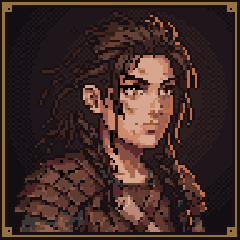
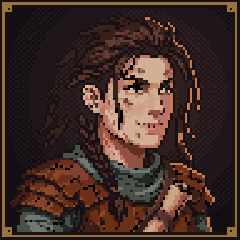
ART3C: Tess re-rolled so her scarred, deaf right ear shows (user pick take 2: the notched ear and the burn down her cheek and jaw); the ART3B pick and the other take kept with their records; ART3_PROMPTS ear line and ART3B/ART3C paragraphs
Review: change-reviewer ship (no fixes)
Gate: check_project.ps1 -Fast -Quiet passed, 477 tests; tools/fc.sh docs clean; 2 image API calls

diff --git a/games/emberwake/docs/specs/ART3_PROMPTS.md b/games/emberwake/docs/specs/ART3_PROMPTS.md
@@ -25,11 +25,17 @@ how far its features are pushed: the hub cast (Tess, Bram, Aline) readable and w
 Clerisy (Quell, Nemeth, the Purifier), the corrupted (the Calcified Husk) and Orlov much further. Hair now varies by
 character; a hood, cowl or habit veil stays only where the brief needs it (the Purifier's gas-mask hood). What the lore
 fixes stays: Tess's deaf, burned ear (her right ear since the user's call of 2026-10-25, so it shows in the
-right-facing framing; the ART3B takes were made with the left ear and no re-roll is run yet), Bram's loupe over the
+right-facing framing; the ART3B takes were made with the left ear, and the right-ear re-roll ran as ART3C, see
+below), Bram's loupe over the
 right eye and scarred throat, Aline's cropped soot-black hair and defaced habit, Quell's neck valve, Nemeth's grey skin
 and throat vial. The two creature blocks are unchanged and were not re-rolled. The user's ART3B picks (2026-10-25:
 take 1 of Vane, Quell, Orlov, Nemeth, the Husk, Tess and Bram, take 2 of the Purifier and Aline) are now
 `art_src/<id>.png` and the game portraits; the ART3 picks went back to their `_gen` names as takes.
+
+ART3C (user 2026-10-25, Tess's right-ear re-roll; 2 takes, Gemini 3 Pro Image): Tess's block names the near-side ear
+on the left of the picture, uncovered by hair, notched, with the burn running onto her jaw. The user picked take 2
+(`tess_gen1792945812_2`); it is now `art_src/tess.png` and the game portrait, and the ART3B pick went back to
+`tess_gen1792942586_1.png` as a take.
 
 Every prompt starts with the same style block:
 
@@ -136,7 +142,7 @@ Hub NPC (non-combat), the founders' portraits row. The game: Tess Morn, the cell
 board at the Water-Lock Basin; Vesper's former runner contact; deaf in one ear from an Inquisition flash-bomb.
 
 ```text
-Character: Tess Morn, Dead-Drop Courier. Stylization warm and readable: large, bright, alert eyes, a small pointed chin, expressive dark brows, a quick lopsided half-smile, a sharp, lively face with soot smudges and a few freckles. A young woman of nineteen, an adult, wiry and compact. Long, thick, wild dark-brown hair: one messy loose braid over her left shoulder, the rest falling free in tangled strands, swept back behind her right ear. Her right ear, the deaf one, on the near side toward the viewer, is scarred and notched, the skin round it puckered by an old burn from a flash-bomb. Patched leather shingle-armour of overlapping scraps over greasy wool wraps, a courier's satchel strap across the chest with a rolled message tube.
+Character: Tess Morn, Dead-Drop Courier. Stylization warm and readable: large, bright, alert eyes, a small pointed chin, expressive dark brows, a quick lopsided half-smile, a sharp, lively face with soot smudges and a few freckles. A young woman of nineteen, an adult, wiry and compact. Long, thick, wild dark-brown hair: one messy loose braid over her left shoulder, the rest falling free in tangled strands, swept back behind her right ear. Her right ear, the deaf one, on the near side toward the viewer (the left side of the picture), is fully visible and not covered by hair: scarred and notched at the rim, the skin round it and down onto her jaw puckered, shiny and pinkish-pale from an old burn from a flash-bomb, clearly readable at small size. Patched leather shingle-armour of overlapping scraps over greasy wool wraps, a courier's satchel strap across the chest with a rolled message tube.
 Mood: quick, wary, determined.
 Main colours: boiled leather brown and rotting oak, grey wool wraps, a small tallow amber accent.
 ```

diff --git a/art_src/README.md b/art_src/README.md
@@ -26,6 +26,9 @@ takes), plus variant sheets such as `mara_voss_variant.png`.
   original take: take 1 of `captain_vane`, `proctor_quell`, `guild_master_orlov`, `inquisitor_prelate_nemeth`,
   `calcified_husk`, `tess` and `bram`, take 2 of `inquisitorial_purifier` and `aline`. Each ART3 pick went back to its
   original `_gen` name as a take; `render_beast` and `ash_crawler` keep their ART3 picks.
+- ART3C (2026-10-25): Tess's right-ear re-roll, 2 takes (`tess_gen1792945776_1`, `tess_gen1792945812_2`). The user
+  picked take 2; it is now `tess.png` with `generated_as`, and the ART3B pick went back to `tess_gen1792942586_1.png`
+  as a take.
 - `ui_1.png`: the PLAYUI1 UI icon sheet (5x5 on a magenta key; prompt in
   `games/emberwake/docs/specs/PLAYUI1_ICONS.md`); `tools/portraits/sheets.py ui art_src/ui_1.png ui_1` cuts it into
   the 22 icons at their layer paths (`--contact` makes a review sheet).
